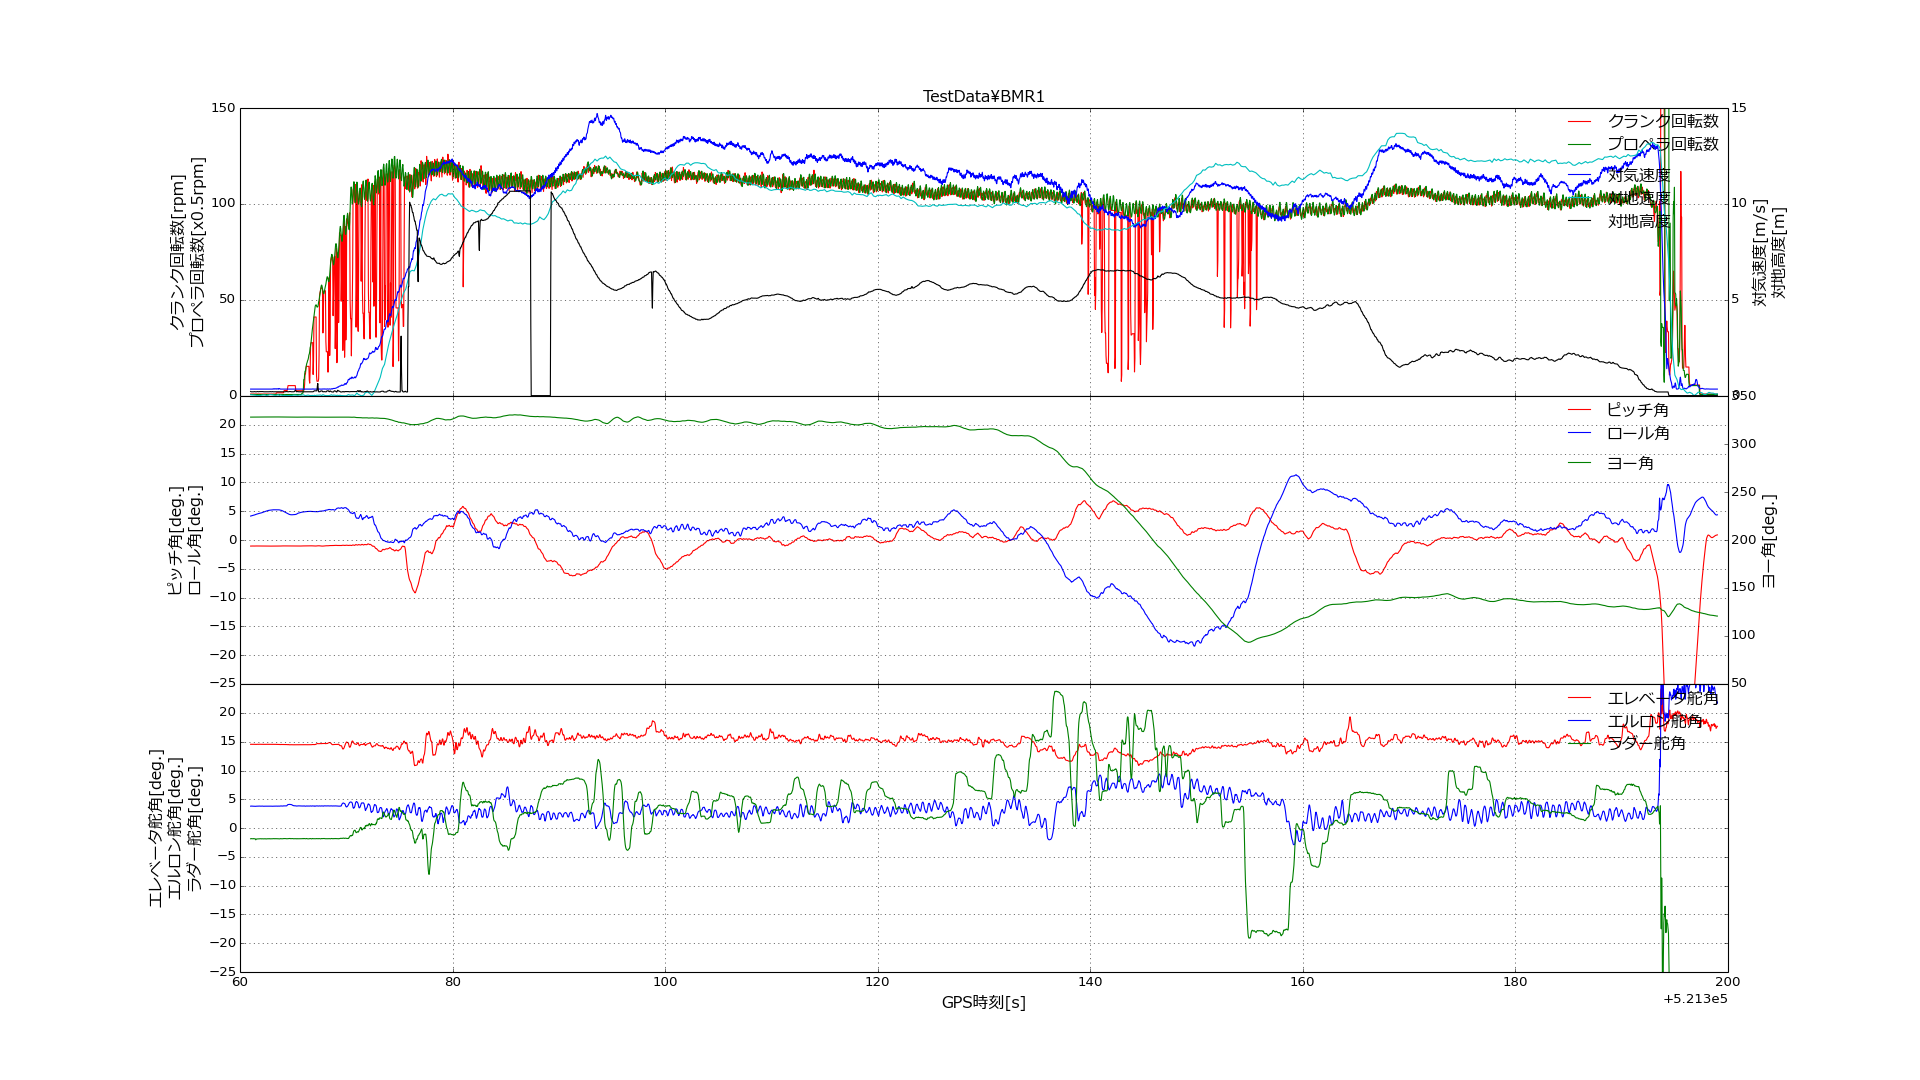
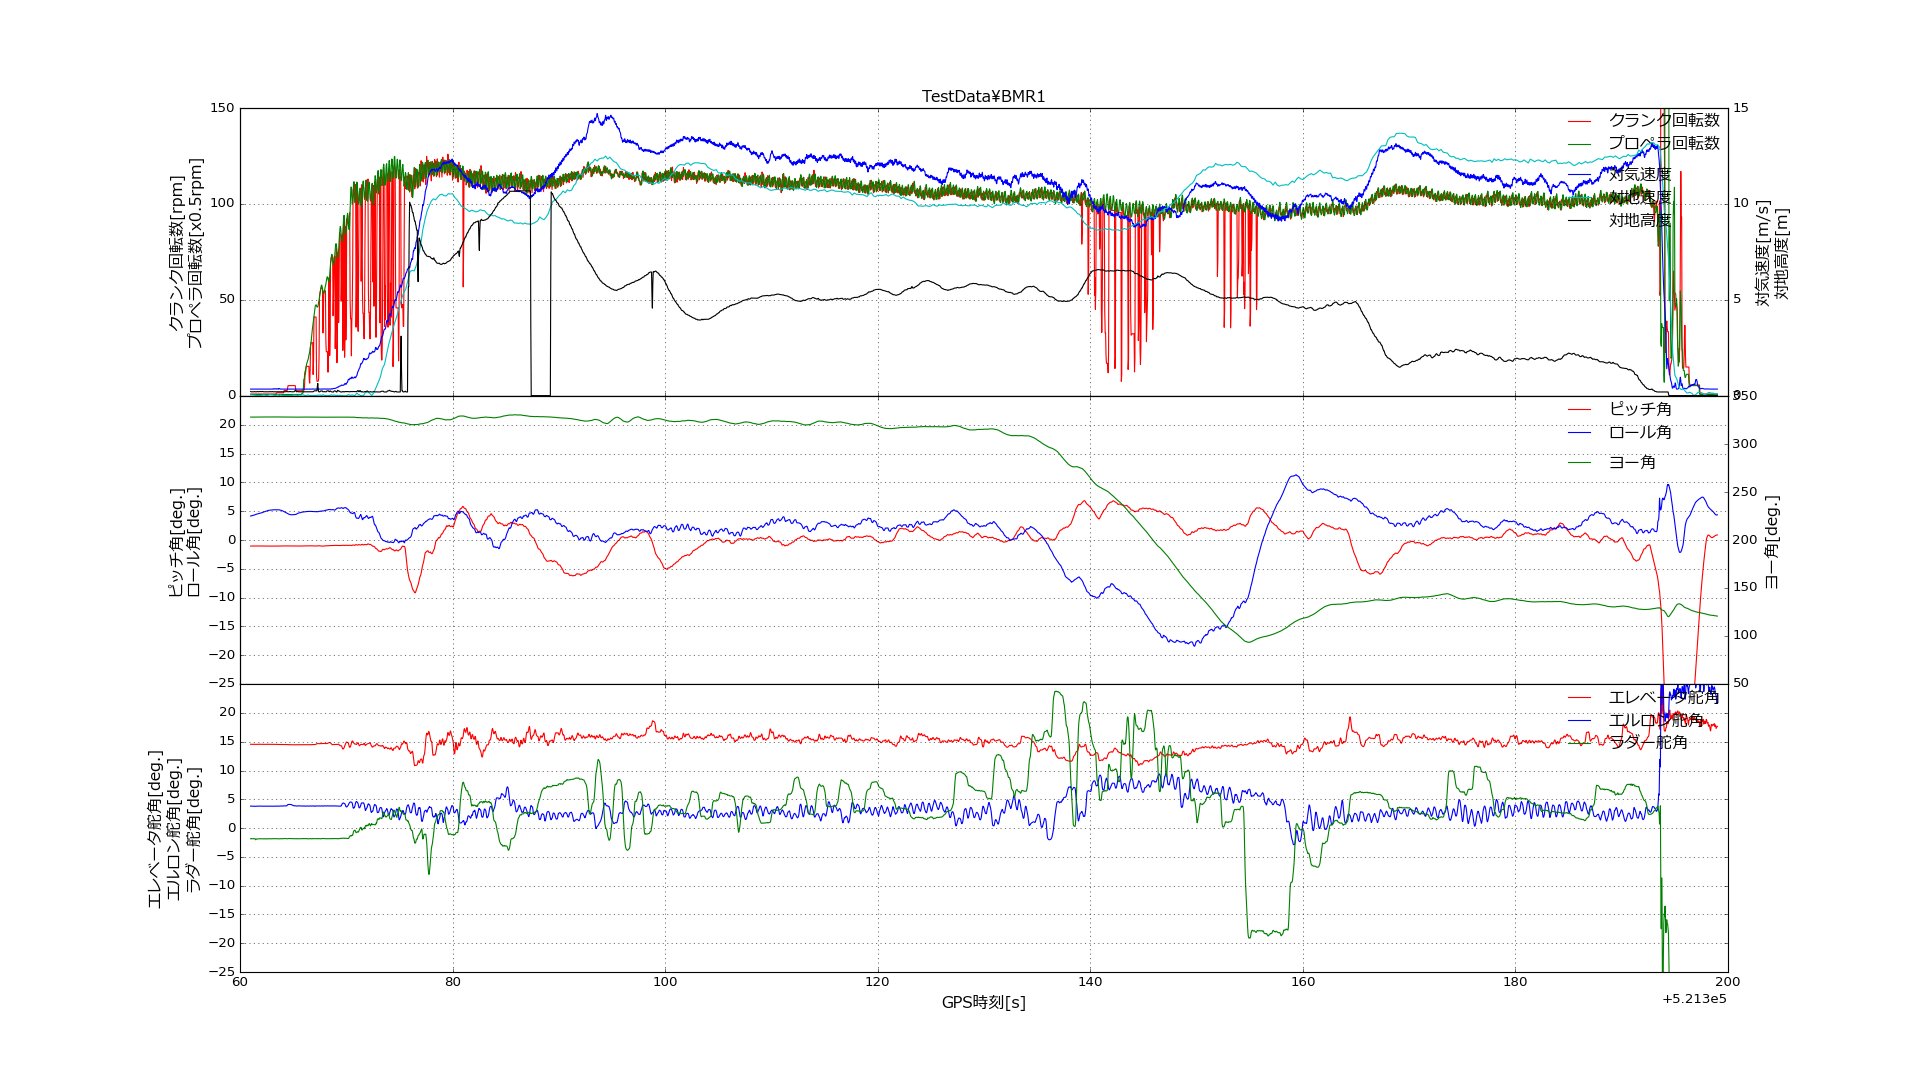
Code change for Python 3
Code change for Python 3

diff --git a/LogViewer.py b/LogViewer.py
@@ -58,7 +58,7 @@ def main():
     
     # デバッグプリント
     if (argc != 3):   # 引数が足りない場合は、その旨を表示
-        print 'Usage: # python %s basedir basename' % argvs[0]
+        print('Usage: # python %s basedir basename' % argvs[0])
         quit()         # プログラムの終了
         
     calib = calibration.calibration()
@@ -83,14 +83,15 @@ def main():
     GS=[]
     for i in range(len(results_G[6])):
         GS.append(math.sqrt(results_G[6][i]*results_G[6][i]+results_G[7][i]*results_G[7][i]))
-    np.savetxt(outname, zip(*results_G), delimiter=',') 
+#    np.savetxt(outname, zip(*results_G), delimiter=',') 
+    np.savetxt(outname, np.transpose(results_G), delimiter=',') 
 
     #Aページ 
     inname = basedir2 + argvs[2] + "_A.csv"
     outname = basedir2 + argvs[2] + "_A_out.csv"
     d = np.loadtxt(inname, delimiter=',')
     results_A = read_page(d, computed_time, "A")
-    np.savetxt(outname, zip(*results_A), delimiter=',')
+    np.savetxt(outname, np.transpose(results_A), delimiter=',')
     
     #Mページ
     inname = basedir2 + argvs[2] + "_M.csv"
@@ -98,7 +99,7 @@ def main():
     d = np.loadtxt(inname, delimiter=',') 
     d[:,0] += ( d[:,1] * 0.04)  #indexを処理
     results_M = read_page(d, computed_time, "M")
-    np.savetxt(outname, zip(*results_M), delimiter=',')
+    np.savetxt(outname, np.transpose(results_M), delimiter=',')
     
     #Hページ
     inname = basedir1 + argvs[2] + "_H.csv"
@@ -113,7 +114,7 @@ def main():
     results_H[5] = (results_H[5] - calib.aileron2) / calib.adcmax * calib.encordermax * calib.aileron1
     results_H[6] = -(results_H[6] - calib.rudder2) / calib.adcmax * calib.encordermax * calib.rudder1
     results_H[7] = (results_H[7] - calib.elevetor2) / calib.adcmax * calib.encordermax * calib.elevetor1
-    np.savetxt(outname, zip(*results_H), delimiter=',')
+    np.savetxt(outname, np.transpose(results_H), delimiter=',')
 
     #Nページ
     inname = basedir2 + argvs[2] + "_N.csv"
@@ -124,7 +125,7 @@ def main():
             if d[i,7] < 0:
                 d[i,7] += 360.0
     results_N = read_page(d, computed_time, "N")
-    np.savetxt(outname, zip(*results_N), delimiter=',')
+    np.savetxt(outname, np.transpose(results_N), delimiter=',')
 
     #グラフ描画
     font_path = "C:\Windows\Fonts\meiryo.ttc"
@@ -152,7 +153,7 @@ def main():
     ax1.set_xlabel('')
     ax1.set_ylabel(u"クランク回転数[rpm]\nプロペラ回転数[x0.5rpm]", fontproperties=font_prop)
     ax1r.set_ylabel(u"対気速度[m/s]\n対地高度[m]", fontproperties=font_prop)
-    ax1.set_xticklabels('', False)
+    ax1.tick_params(labelbottom = 'off')
     ax1.grid(True)
     ax1.legend(prop=font_prop, bbox_to_anchor=(0.885, 1.0), loc=2, borderaxespad=0., frameon = False)
     ax1r.legend(prop=font_prop, bbox_to_anchor=(0.885, 0.815), loc=2, borderaxespad=0., frameon = False)
@@ -171,7 +172,7 @@ def main():
     ax2.set_xlabel('')
     ax2.set_ylabel(u"ピッチ角[deg.]\nロール角[deg.]", fontproperties=font_prop)
     ax2r.set_ylabel(u"ヨー角[deg.]", fontproperties=font_prop)
-    ax2.set_xticklabels('', False)
+    ax2.tick_params(labelbottom = 'off')
     ax2.grid(True) 
     ax2.legend(prop=font_prop, bbox_to_anchor=(0.885, 1.0), loc=2, borderaxespad=0., frameon = False)
     ax2r.legend(prop=font_prop, bbox_to_anchor=(0.885, 0.815), loc=2, borderaxespad=0., frameon = False)

diff --git a/TotalLogViewer.py b/TotalLogViewer.py
@@ -15,7 +15,7 @@ def main():
     
     # デバッグプリント
     if (argc != 3):   # 引数が足りない場合は、その旨を表示
-        print 'Usage: # python %s basedir basename' % argvs[0]
+        print('Usage: # python %s basedir basename' % argvs[0])
         quit()         # プログラムの終了
         
     calib = calibration.calibration()
